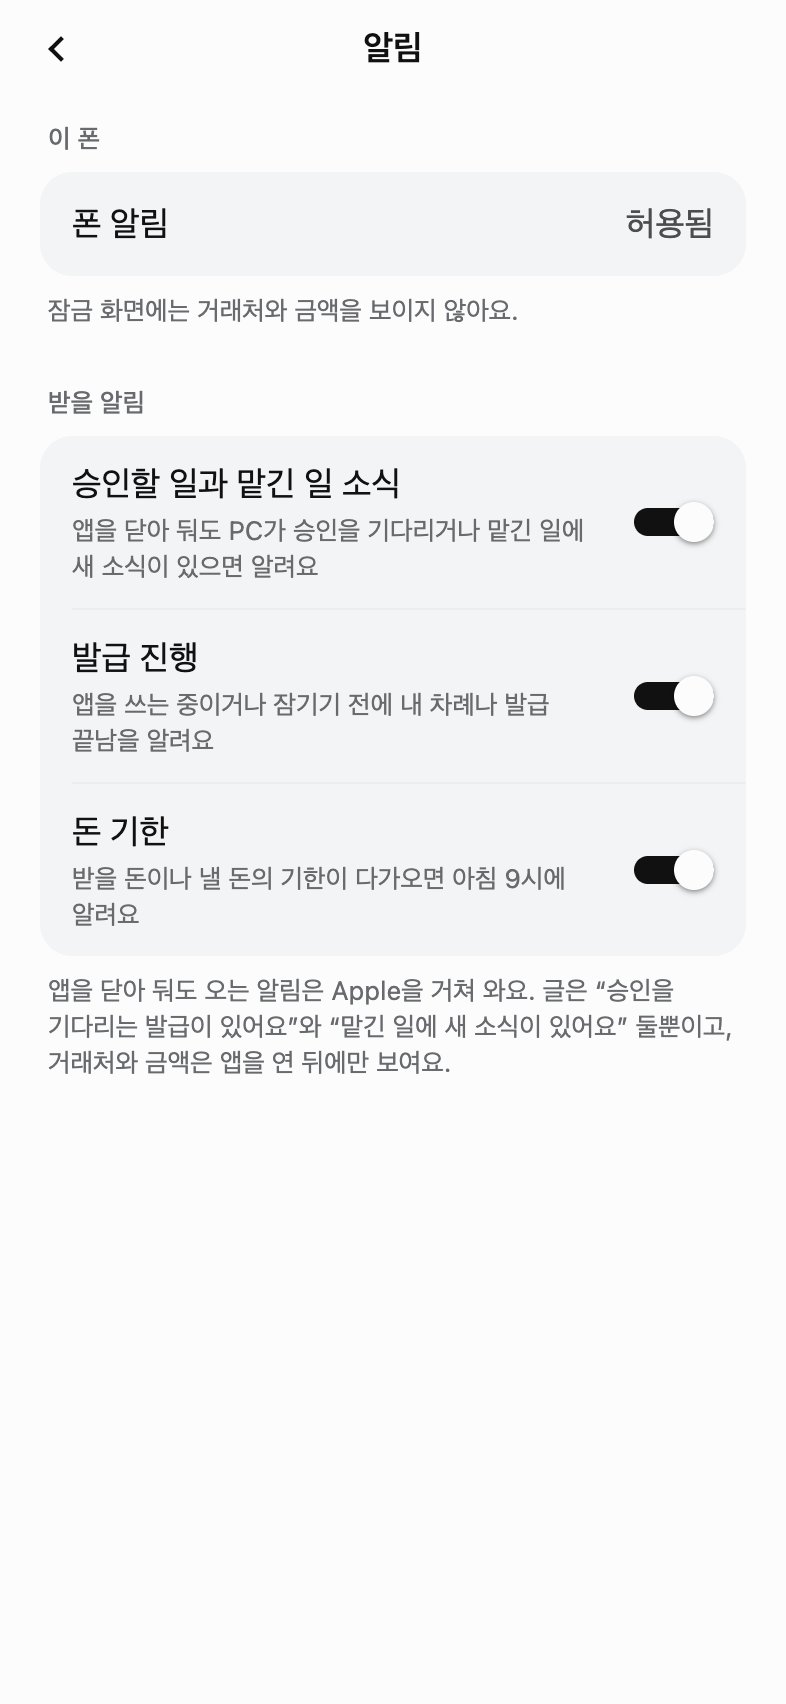
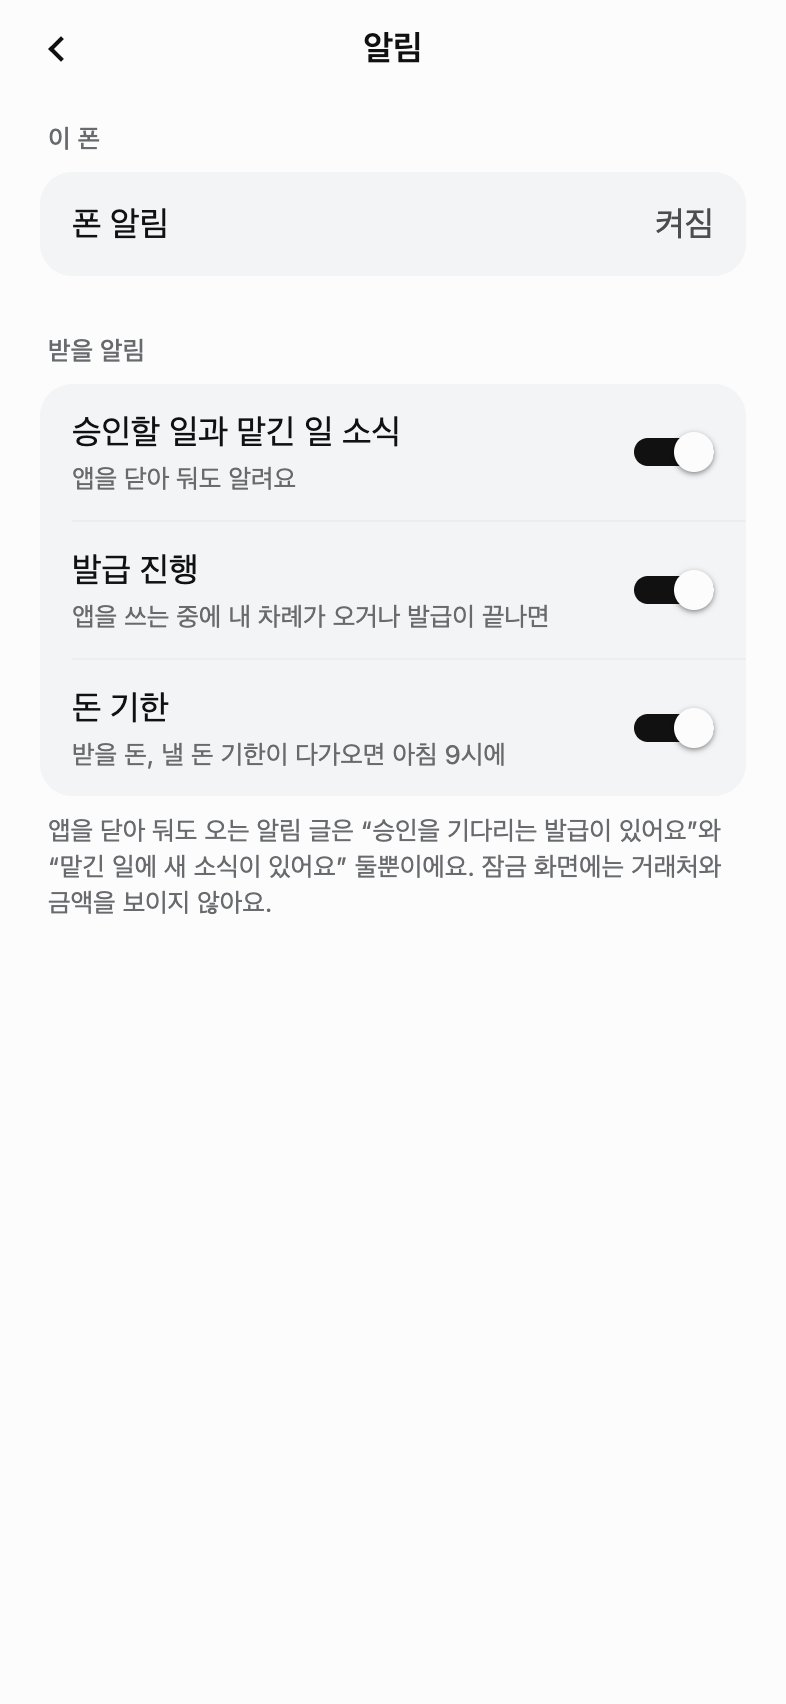
알림 설정 문구: '아직 안 정함', '앱 안에서만'을 꺼짐으로, 겹치는 설명 줄이기, 캡처 다시

diff --git a/src/screens/NotifyScreen.tsx b/src/screens/NotifyScreen.tsx
@@ -48,18 +48,12 @@ export function NotifyScreen({ onDone, permPreview }: { onDone: () => void; perm
     <Screen title="알림" onBack={onDone} testID="notify-settings">
       <Group
         title="이 폰"
-        note={
-          off
-            ? '폰 설정에서 택스오프 알림을 꺼 두셨어요. 앱을 열어 두면 화면 위에 알림이 떠요.'
-            : perm === 'undetermined'
-              ? '허용하면 앱이 뒤에 있을 때도 알려 드려요. 잠금 화면에는 거래처와 금액을 보이지 않아요.'
-              : '잠금 화면에는 거래처와 금액을 보이지 않아요.'
-        }
+        note={off ? '폰 설정에서 꺼 두셨어요. 누르면 설정을 열어요.' : perm === 'undetermined' ? '허용하면 앱을 닫아 둬도 알려 드려요.' : undefined}
       >
         <Row
           testID="notify-permission"
           label="폰 알림"
-          value={perm === null ? '' : perm === 'granted' ? '허용됨' : off ? '꺼짐' : '아직 안 정함'}
+          value={perm === null ? '' : perm === 'granted' ? '켜짐' : '꺼짐'}
           valueInk={off ? 'attention' : 'ink2'}
           onPress={off ? () => void Linking.openSettings() : undefined}
         />
@@ -70,11 +64,11 @@ export function NotifyScreen({ onDone, permPreview }: { onDone: () => void; perm
 
       <Group
         title="받을 알림"
-        note="앱을 닫아 둬도 오는 알림은 Apple을 거쳐 와요. 글은 “승인을 기다리는 발급이 있어요”와 “맡긴 일에 새 소식이 있어요” 둘뿐이고, 거래처와 금액은 앱을 연 뒤에만 보여요."
+        note="앱을 닫아 둬도 오는 알림 글은 “승인을 기다리는 발급이 있어요”와 “맡긴 일에 새 소식이 있어요” 둘뿐이에요. 잠금 화면에는 거래처와 금액을 보이지 않아요."
       >
-        <Row label="승인할 일과 맡긴 일 소식" sub="앱을 닫아 둬도 PC가 승인을 기다리거나 맡긴 일에 새 소식이 있으면 알려요" accessory={sw('wake')} />
-        <Row label="발급 진행" sub="앱을 쓰는 중이거나 잠기기 전에 내 차례나 발급 끝남을 알려요" accessory={sw('run')} />
-        <Row label="돈 기한" sub="받을 돈이나 낼 돈의 기한이 다가오면 아침 9시에 알려요" accessory={sw('money')} />
+        <Row label="승인할 일과 맡긴 일 소식" sub="앱을 닫아 둬도 알려요" accessory={sw('wake')} />
+        <Row label="발급 진행" sub="앱을 쓰는 중에 내 차례가 오거나 발급이 끝나면" accessory={sw('run')} />
+        <Row label="돈 기한" sub="받을 돈, 낼 돈 기한이 다가오면 아침 9시에" accessory={sw('money')} />
       </Group>
     </Screen>
   );

diff --git a/src/screens/SettingsScreen.tsx b/src/screens/SettingsScreen.tsx
@@ -42,7 +42,8 @@ export function SettingsScreen({
   const line = pcLine(s.pc, s.data.lastSeenPc);
   const prefs = s.data.notify ?? DEFAULT_PREFS;
   const anyOn = prefs.run || prefs.money || wakeOn(prefs);
-  const notifyValue = perm === 'denied' ? '폰에서 꺼짐' : !anyOn ? '끔' : perm === 'granted' ? '켜짐' : '앱 안에서만';
+  // 사장님 말로 둘만: 폰이 알려 주면 켜짐, 아니면 꺼짐(OS가 아직 묻지 않은 상태도 꺼짐이다)
+  const notifyValue = perm === 'granted' && anyOn ? '켜짐' : '꺼짐';
   const lockSub = bio && bio.enrolled && bio.kind !== 'none' ? `${bioName(bio.kind)}, 안 되면 폰 암호` : '폰 암호';
 
   return (
